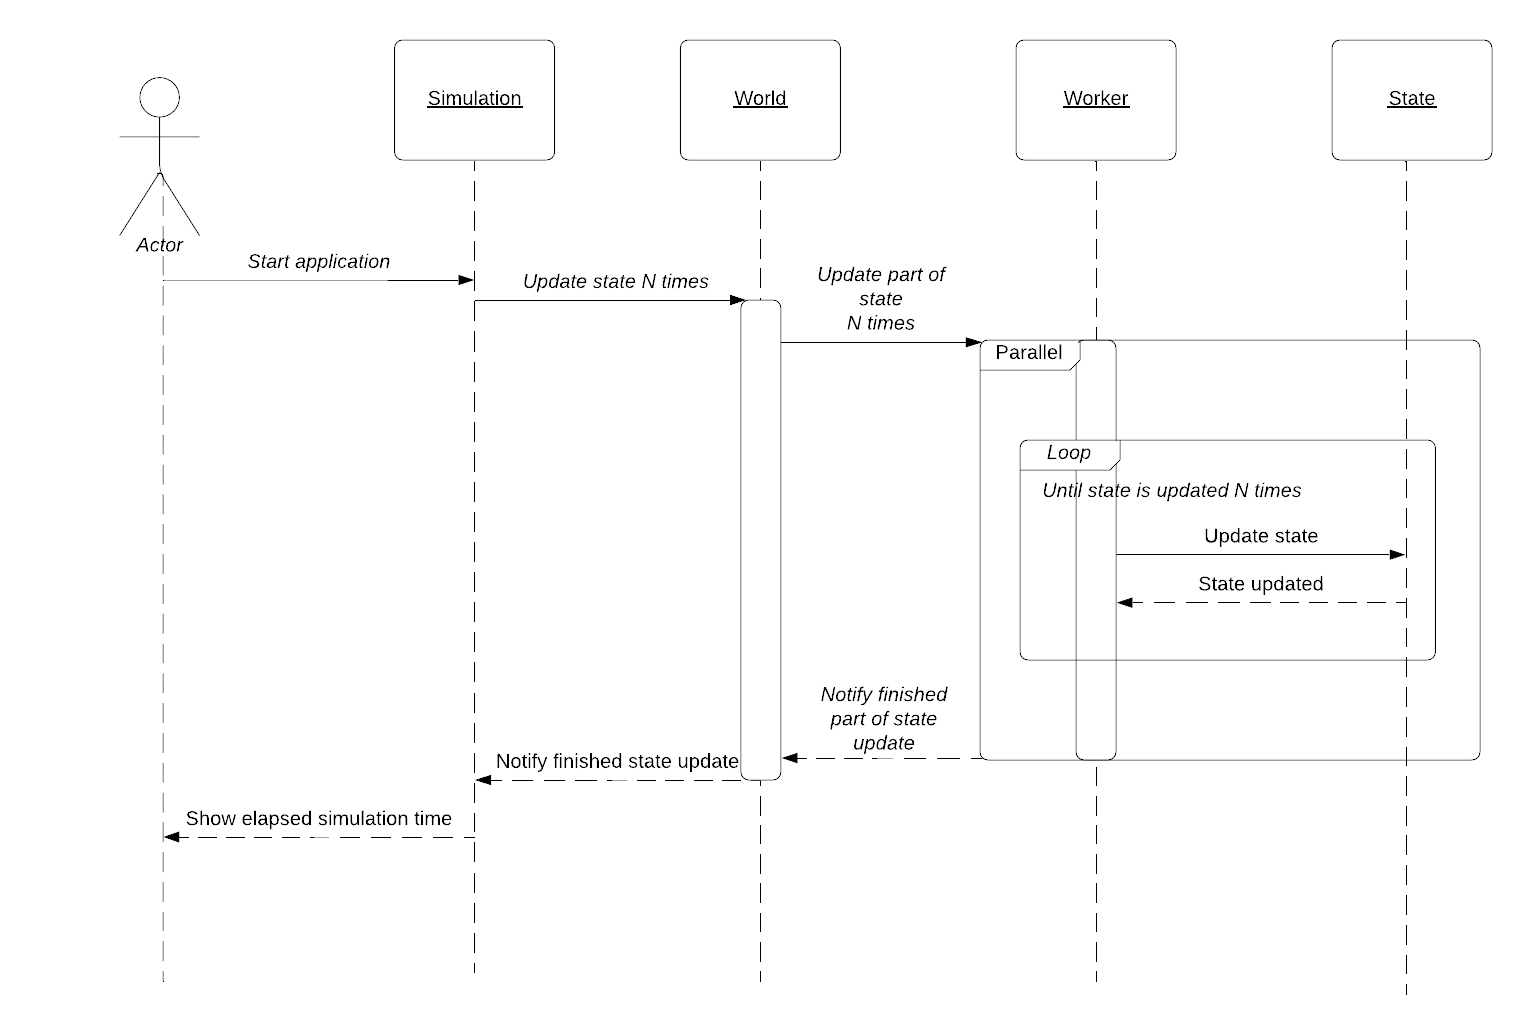
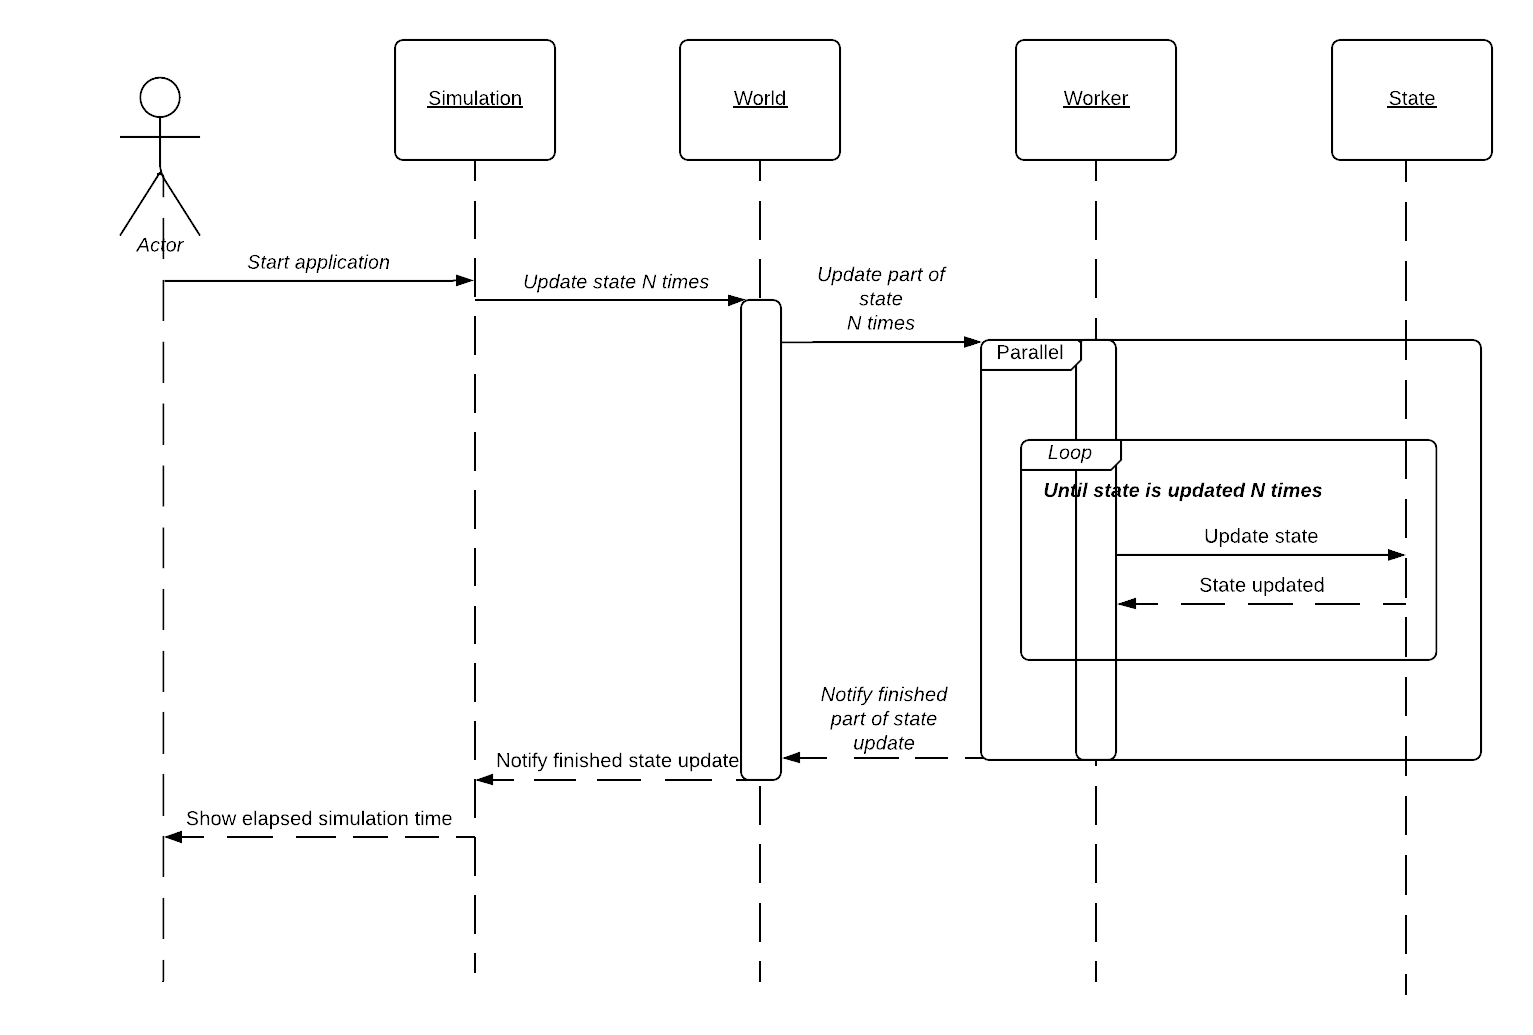
Make sequence diagram more noticeable

diff --git a/docs/wator.tex b/docs/wator.tex
@@ -193,6 +193,8 @@ Execution time millis: 400143
 изпълнявайки симулацията от началото на работата на първата $Worker$ нишка до края
 на изпълнението на последната. Повече за $Worker$ нишките обясняваме във следващата секция.
 
+\newpage
+
 \section{Описание на паралелния алгоритъм}
 Алгоритъмът, който позлваме се базира на статична декомпозиция на домейна.
 Начинът, по който работи е следният. Да кажем, че искаме да изпълним алгоритъма с N на брой нишки.
@@ -310,8 +312,9 @@ Execution time millis: 400143
 По тази причина показваме и UML Sequence диаграма.
 
 \begin{figure}[H]
+	\hspace*{-3cm}
 	\centering
-	\includegraphics[width=1\textwidth]{sequence.png}
+	\includegraphics[width=1.3\textwidth]{sequence.png}
 	\caption{UML Sequence диаграма на проекта}
 \end{figure}
 
@@ -396,14 +399,14 @@ Main нишката на JVM. След това Simulation пуска заявк
 Изледвали сме скалируемостта при 2 различни набора от параметри:
 \begin{itemize}
 	\item $height = 2000, width = 1000, iterations = 200, sharks = 5000, fish = 50 000, \# = 10$
-	\item $height = 4000, width = 2000, iterations = 50, sharks = 800 000, fish = 1 000 000, \# = 10$
+	\item $height = 4000, width = 2000, iterations = 50, sharks = 100 000, fish = 1 000 000, \# = 10$
 \end{itemize}
 
 Идеята да тестваме и при по-голямо поле е да видим как промяната на големината на данните
 влияе на ускорението. Това, което очакваме е то да е по-добро при по-голямо поле с повече риби.
 Тъй като пропорционално времето нужно за менежирането на нишките и времето за комуникация между тях
-е по-малко. Примерно ако полето ни е 2000x1000 при 32 нишки всяка обработва по 60 реда и имайки в предвид
-, че единствен ред се обработва сравнително бързо, би трябвало да не получаваме почти никакво ускорение при
+е по-малко. Примерно ако полето ни е 1000x2000 при 32 нишки всяка обработва по 60 реда и имайки в предвид,
+че единствен ред се обработва сравнително бързо, би трябвало да не получаваме почти никакво ускорение при
 такъв брой нишки, тъй като времето за синхронизация и самото менежиране на нишките ще изядат всякакви
 печалби, които получаваме от паралелизма.
 
